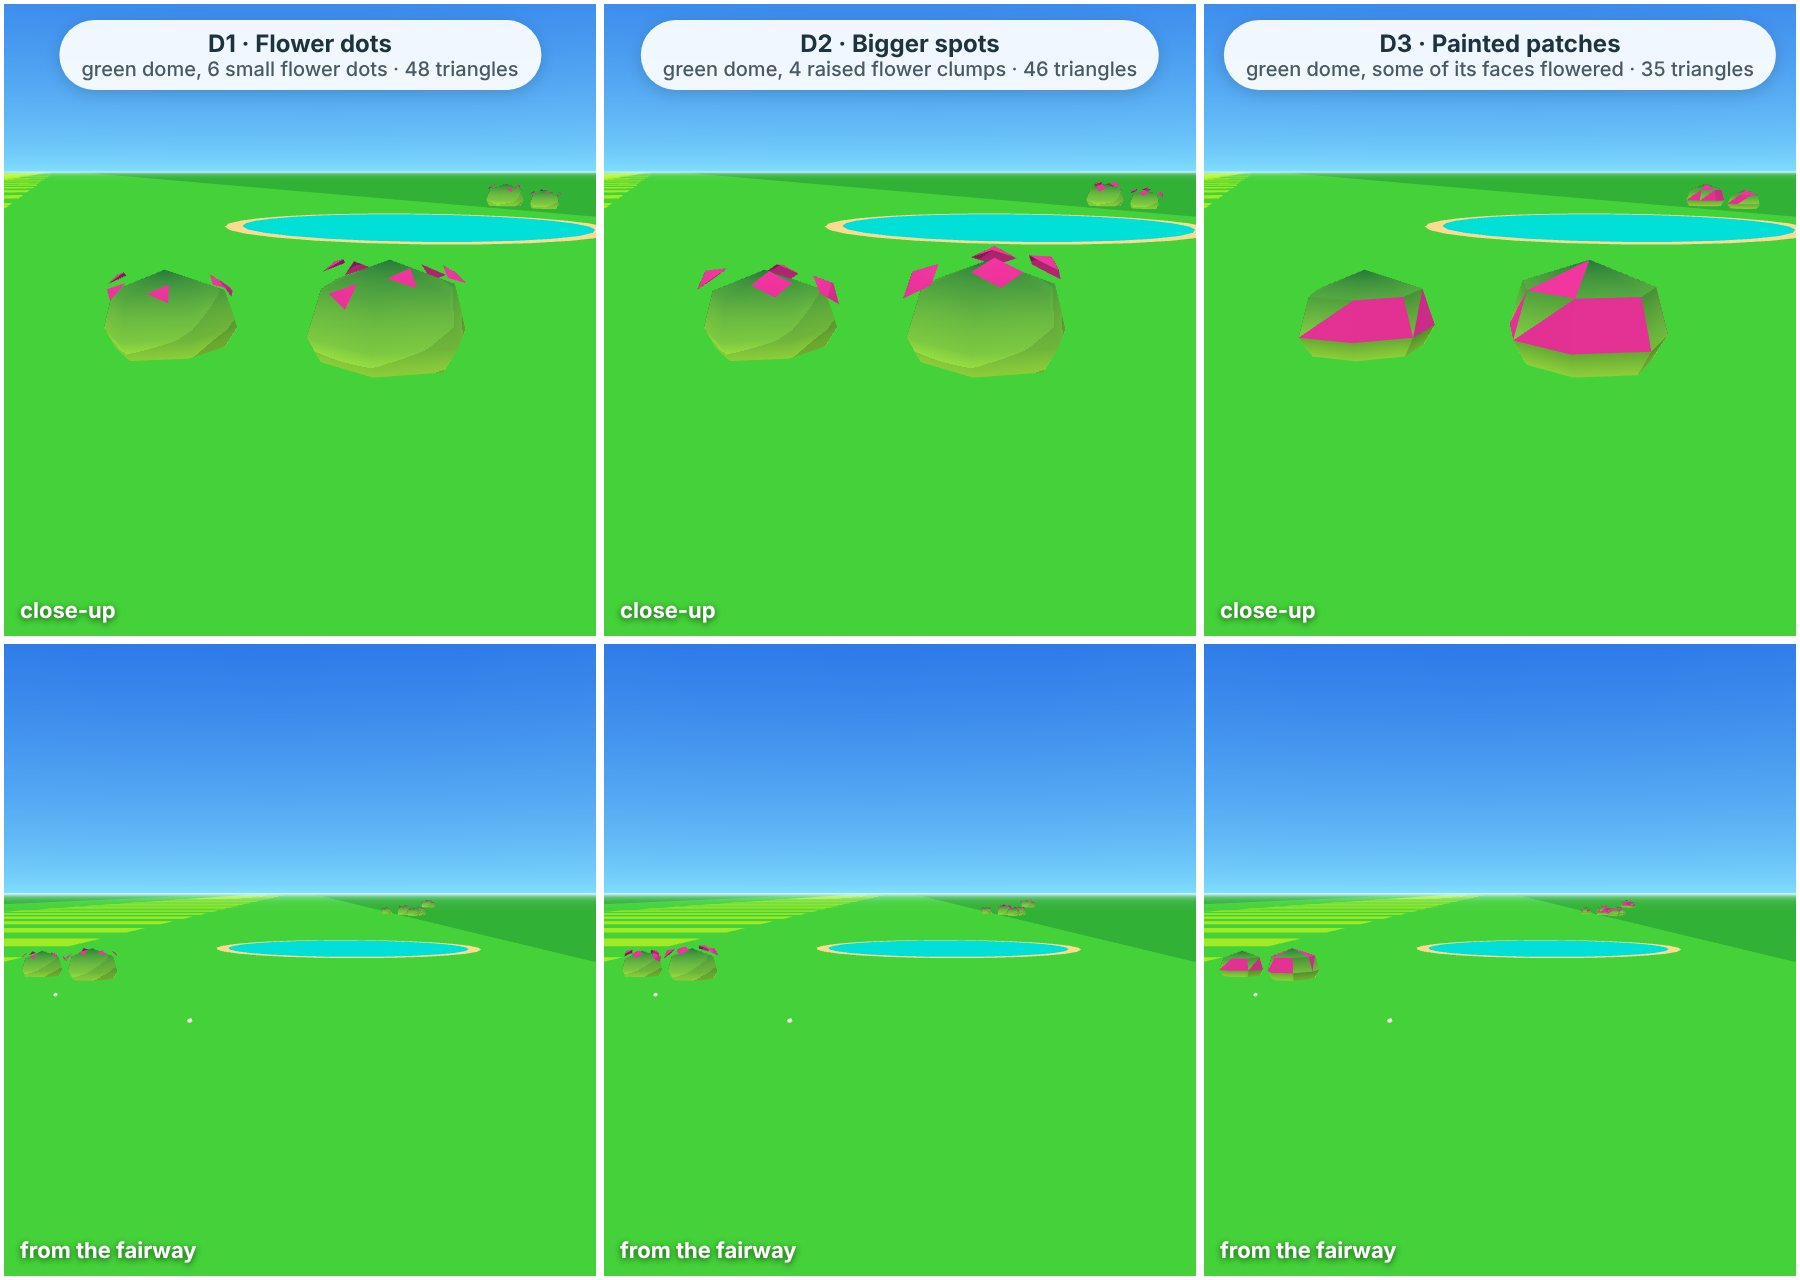
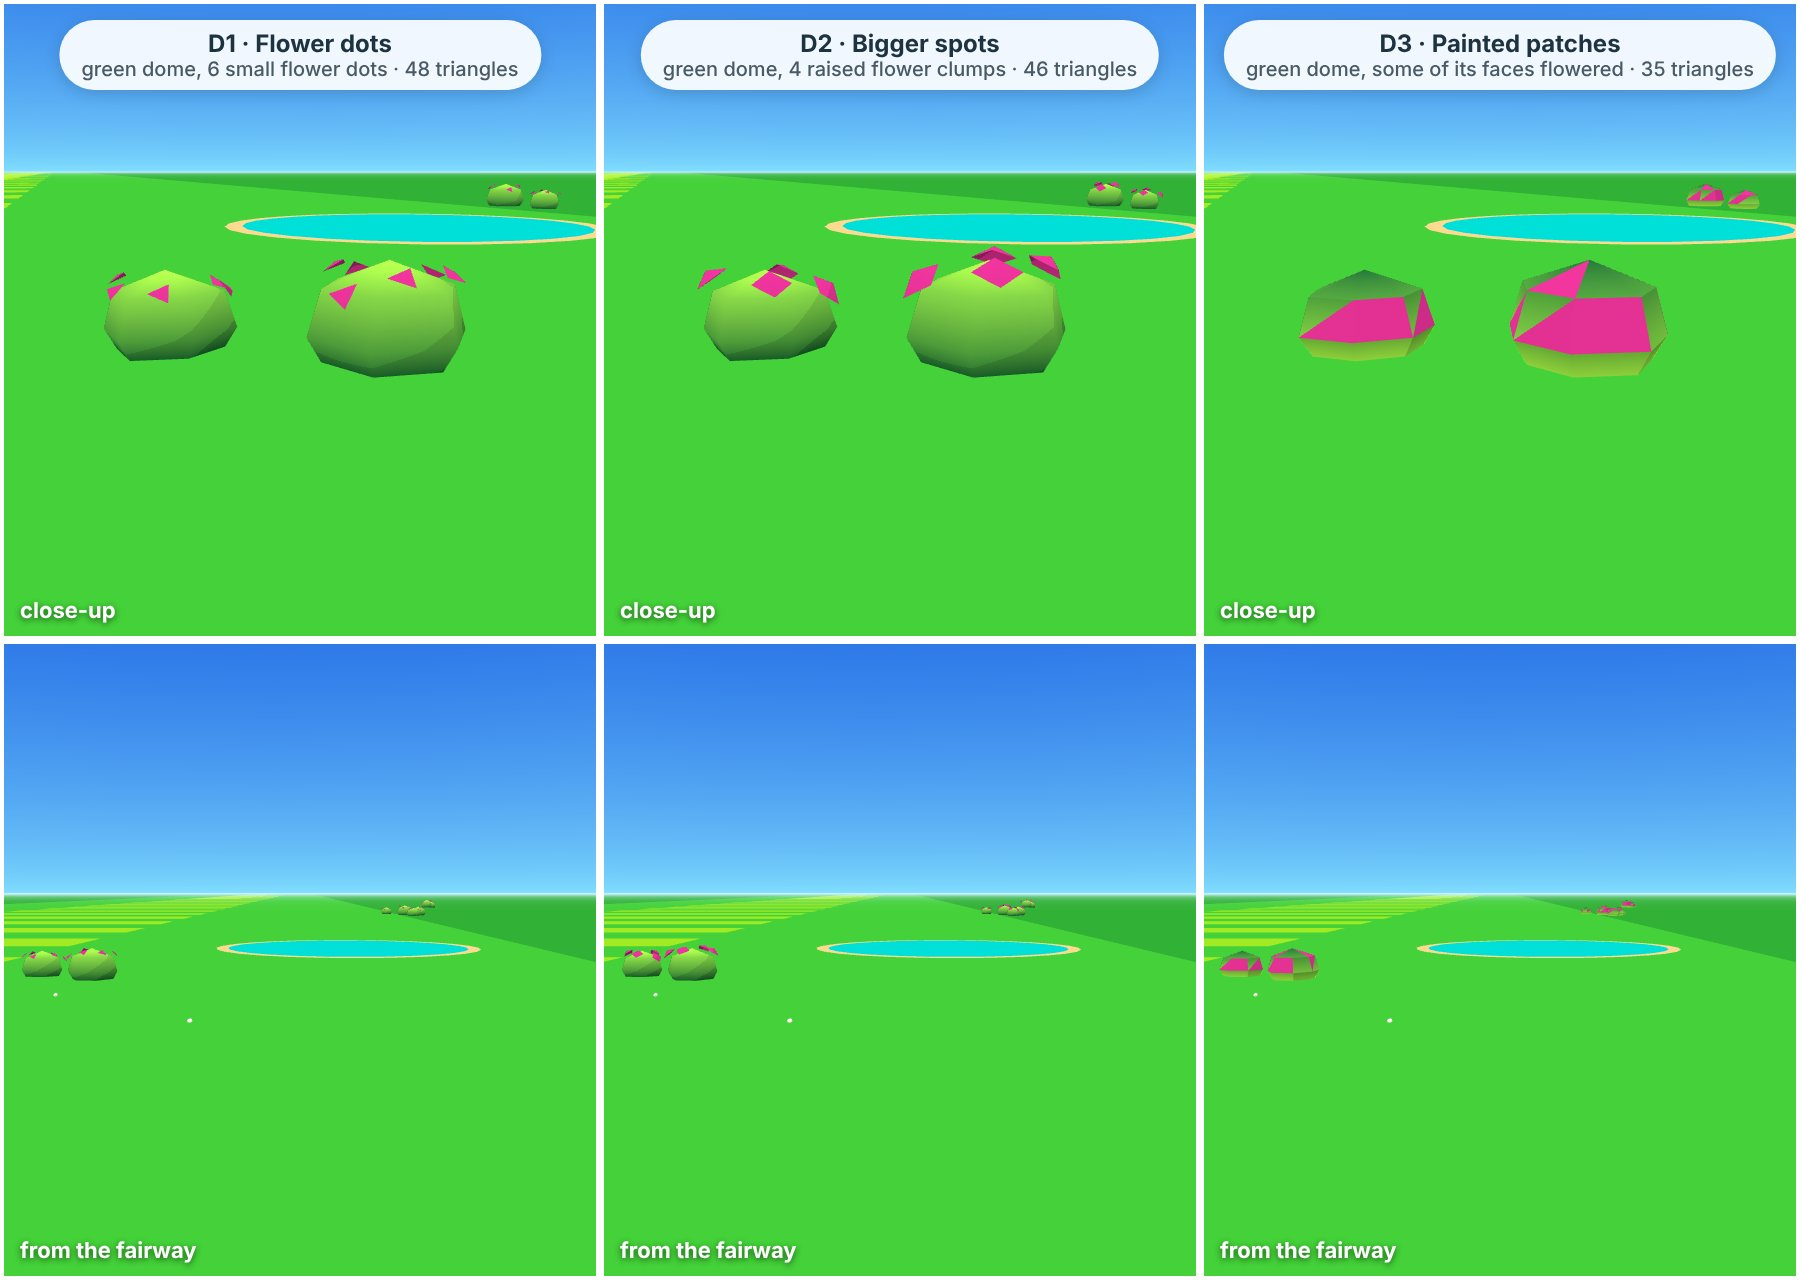
Art: small props mock-up, flowerBush gradient as the spec (foot leafLow, crown leafTop)
The mock-up flipped the dome's gradient by mistake; pictures 07 and 08 re-rendered.

Claude-Session: https://claude.ai/code/session_01Rv6NgBhDn3JiGCnqrtYQhJ

diff --git a/docs/art/small-props/pieces.js b/docs/art/small-props/pieces.js
@@ -139,10 +139,10 @@ export const PIECES = {
     C2: { name: 'C2 · Wavy flower caps', sub: 'a wavy edge, lower at the front', slots: { low: 'leafLow', mid: 'leaf', top: 'leafTop', flower: 'propA' },
       build(seed) { return spill(seed, 1); } },
     D1: { name: 'D1 · Flower dots', sub: 'green dome, 6 small flower dots', slots: { low: 'leafLow', mid: 'leaf', top: 'leafTop', flower: 'propA' },
-      build(seed) { const r = rng(seed), d = dome(6, r() * 3); d.w = d.w.map(v => 1 - v); const out = [part(d, 'low', 'top')];
+      build(seed) { const r = rng(seed), d = dome(6, r() * 3); const out = [part(d, 'low', 'top')]; // foot leafLow → crown leafTop, like the trees
         for (let i = 0; i < 6; i++) out.push(part(spot(0.35 + r() * 0.9, (i / 6) * TAU + r() * 0.6, 0.13, 3, 1.1), 'flower', 'flower')); return out; } },
     D2: { name: 'D2 · Bigger spots', sub: 'green dome, 4 raised flower clumps', slots: { low: 'leafLow', mid: 'leaf', top: 'leafTop', flower: 'propA' },
-      build(seed) { const r = rng(seed), d = dome(6, r() * 3); d.w = d.w.map(v => 1 - v); const out = [part(d, 'low', 'top')];
+      build(seed) { const r = rng(seed), d = dome(6, r() * 3); const out = [part(d, 'low', 'top')]; // foot leafLow → crown leafTop, like the trees
         for (let i = 0; i < 4; i++) out.push(part(spot(0.3 + r() * 0.8, (i / 4) * TAU + r() * 0.8, 0.19, 4, 1.12, 0.55), 'flower', 'flower')); return out; } },
     D3: { name: 'D3 · Painted patches', sub: 'green dome, some of its faces flowered', slots: { low: 'leafLow', mid: 'leaf', top: 'leafTop', flower: 'propA' },
       build(seed) { return paintedDome(seed); } },
